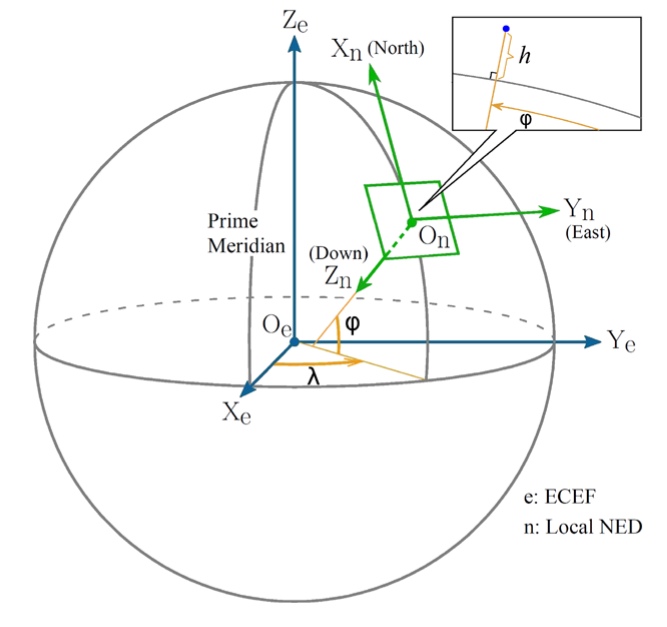
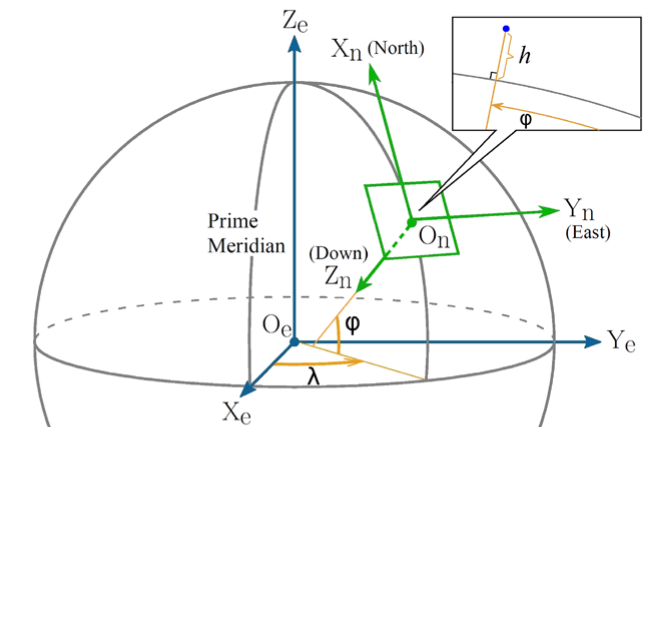
...

diff --git a/doc/presentation/slides/frames.tex b/doc/presentation/slides/frames.tex
@@ -1,21 +1,24 @@
 \subsection{Frames}
 
 \begin{frame}{Frames}{}
-  \begin{block}{Geodetic Coordinate System}
 
-  \end{block}
+  \begin{itemize}
+  \item Geodetic Coordinate System
+  \item Earth-Centered Earth-Fixed (ECEF)
+  \item North-East-Down (NED)
+  \item Body Coordinate System
   
-  \begin{block}{Earth-Centered Earth-Fixed (ECEF)}
+  \end{itemize}
 
-  \end{block}
+ 
 
-  \begin{block}{North-East-Down (NED)}
-
-  \end{block}
-
-  \begin{block}{Body Coordinate System}
-
-  \end{block}
-
+  
+\begin{figure}[H]
+\centerline{
+\includegraphics[scale=0.35]{figures/GeoTemp1.png}}
+\label{fig:frames}
+\end{figure}  
+  
+  
 \end{frame}
 

diff --git a/doc/presentation/slides/overview.tex b/doc/presentation/slides/overview.tex
@@ -21,7 +21,7 @@
    \begin{figure}[H]
 \centerline{
 \includegraphics[scale=0.35]{figures/overview2.png}}
-\label{fig:overview}
+\label{fig:overview2}
 \end{figure}
 
     

diff --git a/doc/presentation/slides/intro.tex b/doc/presentation/slides/intro.tex
@@ -4,7 +4,7 @@
 \begin{figure}[H]
 \centerline{
 \includegraphics[scale=0.35]{figures/intro.png}}
-\label{fig:overview}
+\label{fig:intro}
 \end{figure}
 \end{frame}
 
